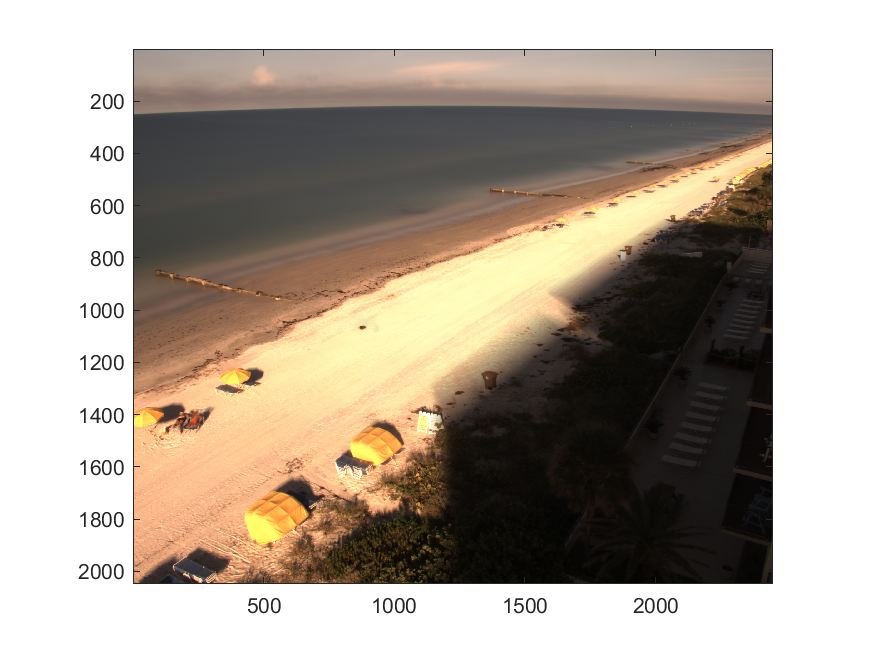
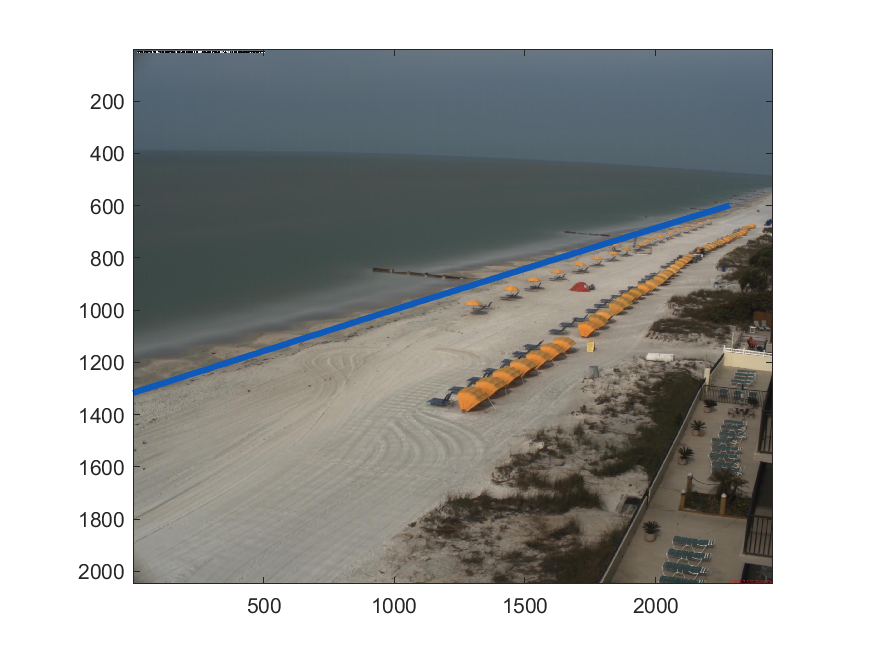
run code with 2017 data

diff --git a/matlabcode/plotResultsMadeiraBeachForecastColorsEta.m b/matlabcode/plotResultsMadeiraBeachForecastColorsEta.m
@@ -30,16 +30,16 @@ myepoch = num2str(datenum2epoch(datenum(year,month,day,hr1,0,0)));
 %*** 1. image data
 %load(['\\gs\StPetersburgFL-G\Coastal_Change_Hazards\Archive\Data\2016\2016-363-DD_20161028\madbeach\',num2str(year),'\c1\',yearday,'_',monthName,'.',dayNum,'\',myepoch,'.',dayName,'.',monthName,'.',dayNum,'_',num2str(hr1),'_00_00.GMT.',num2str(year),'.madbeach.c1.snap.mat']);
 %load(['\\gs\StPetersburgFL-G\Coastal_Change_Hazards\Archive\Data\2016\2016-363-DD_20161028\madbeach\',num2str(year),'\c1\',yearday,'_',monthName,'.',dayNum,'\',myepoch,'.',dayName,'.',monthName,'.',dayNum,'_',num2str(hr1),'_00_00.GMT.',num2str(year),'.madbeach.c1.timex.mat']);
-geom = load('geomFile_c1.mat');
+geom = load('geomFile_20170217.mat');
 
 figure(1);
-image1 = imread('1663246800.Thu.Sep.15_13_00_00.GMT.2022.madbeach.c1.snap.jpg');
+image1 = imread('1487430000.Sat.Feb.18_15_00_00.GMT.2017.madbeach.c1.snap.jpg');
 imagesc(image1)
 %imshow('1663246800.Thu.Sep.15_13_00_00.GMT.2022.madbeach.c1.snap.jpg');
 %print('-dpng',['C:\Users\mpalmsten\OneDrive - DOI\projects\TWL\MadeiraBeach\ForecastOnImage\Snap',num2str(year), num2str(month), num2str(day), num2str(hr1), '.png'])
 
 figure(2);
-image2 = imread('1663246800.Thu.Sep.15_13_00_00.GMT.2022.madbeach.c1.timex.jpg');
+image2 = imread('1487430000.Sat.Feb.18_15_00_00.GMT.2017.madbeach.c1.timex.jpg');
 imagesc(image2)
 %imshow('1663246800.Thu.Sep.15_13_00_00.GMT.2022.madbeach.c1.timex.jpg')
 % print('-dpng', ['C:\Users\mpalmsten\OneDrive - DOI\projects\TWL\MadeiraBeach\ForecastOnImage\Timex',num2str(year), num2str(month), num2str(day), num2str(hr1), '.png'])
@@ -54,17 +54,18 @@ for ii=1:length(surveys_all); surveys = [surveys; surveys_all(ii).name];end %spe
 tmp=((datenum(year,month,day)-datenum(surveys,'yyyymmdd')));
 ii=find(tmp>0,1,'last'); %find most recent topo
 if ii==4 || ii>=6
-ans = dlmread(['\\gs\StPetersburgFL-G\NACCH\Imagery\madbeach\surveys\walking\20221005\line60.xyz']); %%%%%%%changing to 9/15/22 for testing
+% ans = dlmread(['\\gs\StPetersburgFL-G\NACCH\Imagery\madbeach\surveys\walking\20221005\line60.xyz']);
+ans = dlmread(['\\gs\StPetersburgFL-G\NACCH\Imagery\madbeach\surveys\walking\20170217\line59.xyz']);
 profile.E=ans(:,1);profile.N=ans(:,2);
 [profile.x,profile.y]=coordSys_madbeach(profile.E,profile.N);
 profile.z=ans(:,3);
 elseif ii==1 || ii==2 || ii==3 || ii==5
 disp('hi')
-dlmread(['\\gs\StPetersburgFL-G\NACCH\Imagery\madbeach\surveys\walking\20221005\line60.xyz']);
+dlmread(['\\gs\StPetersburgFL-G\NACCH\Imagery\madbeach\surveys\walking\20170217\line59.xyz']);
 p1.E=ans(:,1);p1.N=ans(:,2);
 [p1.x,p1.y]=coordSys_madbeach(p1.E,p1.N);
 p1.z=ans(:,3);
-dlmread(['\\gs\StPetersburgFL-G\NACCH\Imagery\madbeach\surveys\walking\20221005\line60.xyz']);
+dlmread(['\\gs\StPetersburgFL-G\NACCH\Imagery\madbeach\surveys\walking\20170217\line59.xyz']);
 p2.E=ans(:,1);p2.N=ans(:,2);
 [p2.x,p2.y]=coordSys_madbeach(p2.E,p2.N);
 p2.z=ans(:,3);
@@ -132,21 +133,22 @@ R.slope=cat(1,all_twl.slope)';
 pindex = 1; % this file only saves the MadBeach TWL data
 tindex = find(R.time>datenum(year,month,day,hr1-1,0,0) & R.time<datenum(year,month,day,hr1+1,0,0));
 
-%Aadded by Eric - 11/23. Manually set instrincs array from meta.globals.lcp
-%struct as input to xyzDistUV()
-intrinsics = zeros(1,11);
-intrinsics(1) = meta.globals.lcp.NU;
-intrinsics(2) = meta.globals.lcp.NV;
-intrinsics(3) = meta.globals.lcp.c0U;
-intrinsics(4) = meta.globals.lcp.c0V;
-intrinsics(5) = meta.globals.lcp.fx;
-intrinsics(6) = meta.globals.lcp.fy;
-intrinsics(7) = meta.globals.lcp.d1;
-intrinsics(8) = meta.globals.lcp.d2;
-intrinsics(9) = meta.globals.lcp.d3;
-intrinsics(10) = meta.globals.lcp.t1;
-intrinsics(11) = meta.globals.lcp.t2;
-extrinsics = geom.betas;
+% %Aadded by Eric - 11/23. Manually set instrincs array from meta.globals.lcp
+% %struct as input to xyzDistUV()
+% load('geomFile_c1.mat')
+% intrinsics = zeros(1,11);
+% intrinsics(1) = meta.globals.lcp.NU;
+% intrinsics(2) = meta.globals.lcp.NV;
+% intrinsics(3) = meta.globals.lcp.c0U;
+% intrinsics(4) = meta.globals.lcp.c0V;
+% intrinsics(5) = meta.globals.lcp.fx;
+% intrinsics(6) = meta.globals.lcp.fy;
+% intrinsics(7) = meta.globals.lcp.d1;
+% intrinsics(8) = meta.globals.lcp.d2;
+% intrinsics(9) = meta.globals.lcp.d3;
+% intrinsics(10) = meta.globals.lcp.t1;
+% intrinsics(11) = meta.globals.lcp.t2;
+% extrinsics = geom.betas;
 
 %---loop through alongshore locations
 num = -25:-1:-450;
@@ -174,8 +176,7 @@ for i = 1:length(num)
     
     %---profile
     xyz = [profile.x,  profile.y, profile.z]; % may to transpose or not to get to work, also , or ;
-    
-    UV = round(xyz2DistUV(intrinsics, extrinsics, xyz));
+    UV = round(findUVnDOF(geom.betas,xyz,geom.meta.globals));
     UV = reshape(UV,[],2);
     profile.u = UV(:,1);
     profile.v = UV(:,2);
@@ -183,7 +184,7 @@ for i = 1:length(num)
     
     %---R2
     xyz = [R2.x;  R2.y; R2.z]';
-    UV = round(xyz2DistUV(intrinsics, extrinsics, xyz));
+    UV = round(findUVnDOF(geom.betas,xyz,geom.meta.globals));
     UV = reshape(UV,[],2);
     R2.u(:,i) = UV(:,1);
     R2.v(:,i) = UV(:,2);
@@ -191,11 +192,11 @@ for i = 1:length(num)
     
     %---TWL
     xyz = [TWL.x;  TWL.y; TWL.z]';
-    UV = round(xyz2DistUV(intrinsics,extrinsics, xyz);
+    UV = round(findUVnDOF(geom.betas,xyz,geom.meta.globals));
     UV = reshape(UV,[],2);
     TWL.u(:,i) = UV(:,1);
     TWL.v(:,i) = UV(:,2);
-%     clear xyz UV
+    clear xyz UV
 end
 
 figure(1);
@@ -214,7 +215,6 @@ ax = axis;
 axis image; axis(ax);
 %title([datestr(R.time(tindex)) 'GMT']);
 print('-dpng', ['C:\Users\eswanson\OneDrive - DOI\Documents\GitHub\pixel2runup\forecasted',num2str(year), num2str(month), num2str(day), num2str(hr1), '.png'])
-
 figure(2);
 hold on
 % plot(profile.u,profile.v,'b-','linewidth',2);

diff --git a/matlabcode/rotatePoints.m b/matlabcode/rotatePoints.m
@@ -1,0 +1,33 @@
+function points_rotated = rotatePoints(points,angle,rotation_centre,option)
+%
+%function points_rotated = rotate_points(points,angle,rotation_centre,option)
+%
+%Function to rotate points using rotation matrix
+%Created by Mitch Harley
+
+
+%Set defaults
+if nargin==3
+    option = 'rads'; %default option is angle in radians
+end
+
+%First subtract rotation_center
+points_new = points(:,1:2) - repmat(rotation_centre,size(points,1),1);
+
+%Now convert angle to radians
+switch option
+    case 'rads'
+        angle = angle;
+    case 'degs'
+        angle = angle*pi/180;
+    case 'polyfit'
+        angle = atan(angle(1));
+end
+
+%Now rotate the points
+points_rotated = points_new*[cos(angle) -sin(angle); sin(angle) cos(angle)];
+
+%Add elevation column if necessary
+if size(points,2)==3
+    points_rotated = [points_rotated points(:,3)];
+end

diff --git a/matlabcode/unrotate_points.m b/matlabcode/unrotate_points.m
@@ -1,0 +1,29 @@
+function points = unrotate_points(points_rotated,angle,rotation_centre,option)
+
+%Set defaults
+if nargin==3
+    option = 'rads'; %default option is angle in radians
+end
+
+points_rotated_new = points_rotated(:,1:2);
+
+%Convert angle to radians
+switch option
+    case 'rads'
+        angle = angle;
+    case 'degs'
+        angle = angle*pi/180;
+    case 'polyfit'
+        angle = atan(angle(1));
+end
+
+%Now rotate the points back
+points_new = points_rotated_new*[cos(-angle) -sin(-angle); sin(-angle) cos(-angle)];
+
+%Add rotation_center back to points
+points = points_new + repmat(rotation_centre,size(points_new,1),1);
+
+%Add elevation column if necessary
+if size(points_rotated,2)==3
+    points = [points points_rotated(:,3)];
+end

diff --git a/plotResultsMadeiraBeachForecastColorsEta.py b/plotResultsMadeiraBeachForecastColorsEta.py
@@ -511,5 +511,12 @@ for i in range(0, len(num)):
     TWLu[:,i] = UV[:,0]
     TWLv[:,i] = UV[:,1]
 
+## plot forecast ##
+snapImg = plt.imread(snapFile)
+timexFile = plt.imread(timexFile)
+fig, ax = plt.subplots()
+ax.imshow(snapImg)
+plt.show()
+
     
 
